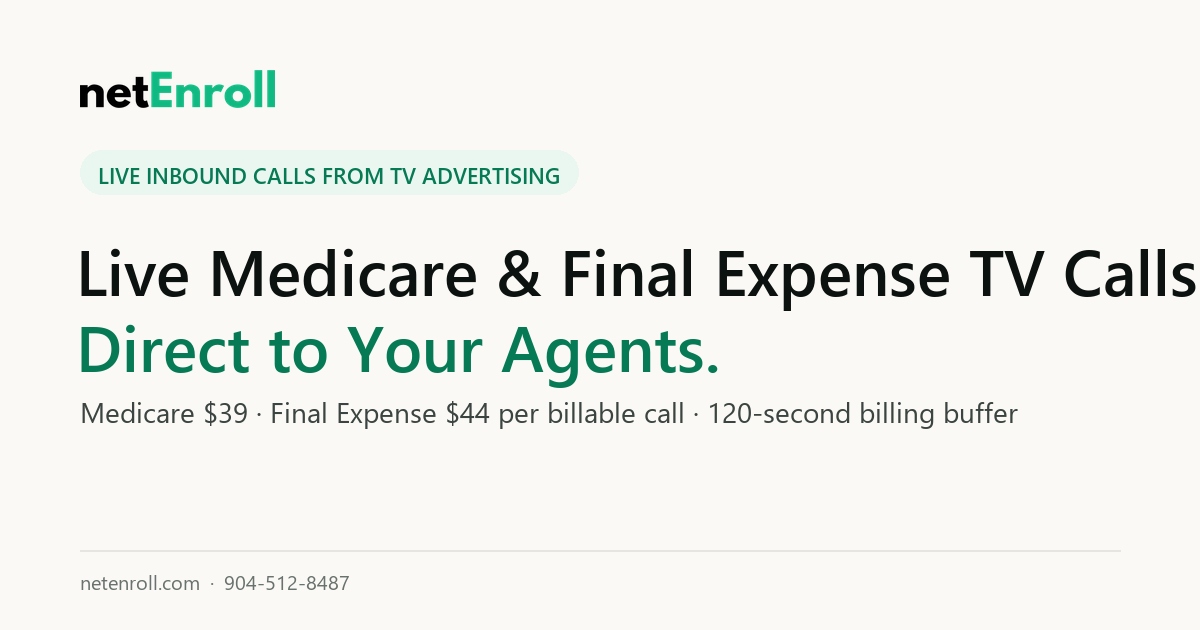
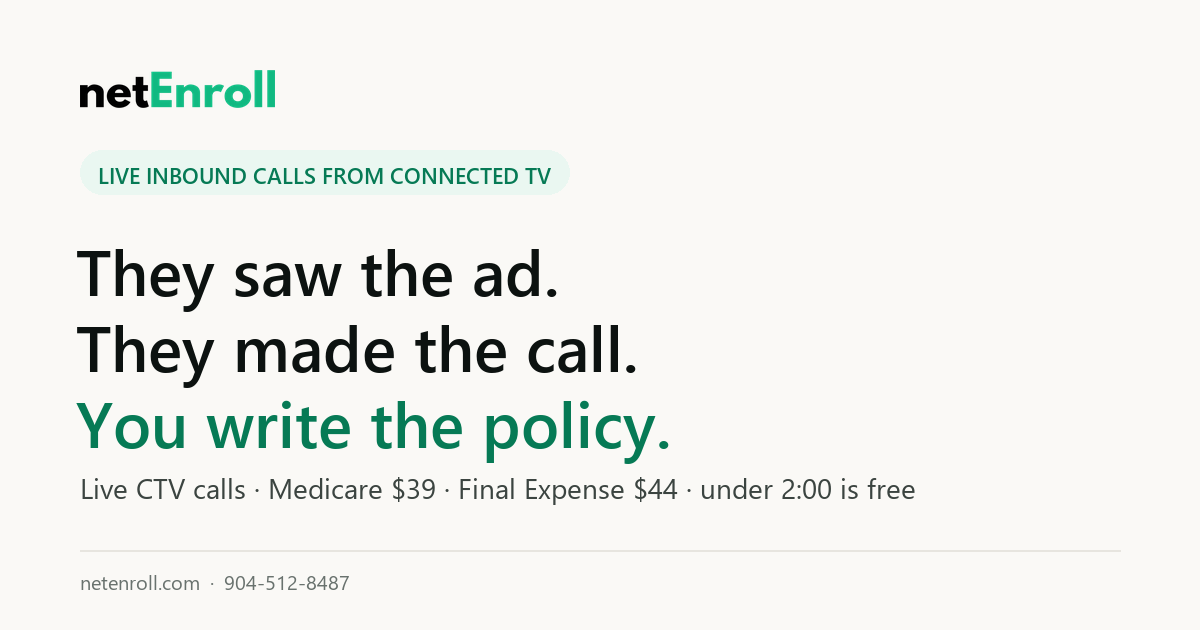
Homepage: finish the hero card, green live dot, new share image

diff --git a/home.css b/home.css
@@ -15,7 +15,7 @@
     --cream: #FFFFFF;
     --yellow: #10B981;
     --yellow-2: #2BD198;
-    --tally: #FF4D3D;
+    --tally: #10B981;
     --bg: #FFFFFF;
     --display: 'General Sans', 'Satoshi', -apple-system, BlinkMacSystemFont, 'Segoe UI', Helvetica, Arial, sans-serif;
     background: #fff;
@@ -33,7 +33,7 @@
 .p-home .btn-ghost:hover { --b: rgba(255, 255, 255, .06); border-color: var(--cream); box-shadow: none; }
 
 /* ---- Hero ---------------------------------------------------------------- */
-.hx { background: var(--pine); color: var(--cream); padding: clamp(44px, 6vw, 88px) 0 0; overflow: hidden; }
+.hx { background: var(--pine); color: var(--cream); padding: clamp(44px, 6vw, 88px) 0 clamp(40px, 5vw, 72px); overflow: hidden; }
 .hx-grid { display: grid; grid-template-columns: 1.08fr .92fr; gap: clamp(32px, 5vw, 72px); align-items: center; }
 .hx h1 {
     color: #fff; font-size: clamp(40px, 5.6vw, 84px); line-height: .98; letter-spacing: -.04em;
@@ -67,11 +67,12 @@
 .tv-num { margin-top: 10px; display: inline-flex; align-self: flex-start; padding: 8px 14px; border-radius: 10px; background: var(--yellow); color: #0C1210; font: 600 clamp(17px, 1.9vw, 21px)/1 var(--display); letter-spacing: .02em; }
 .wire { width: 2px; height: 34px; background: repeating-linear-gradient(to bottom, var(--yellow) 0 6px, transparent 6px 12px); }
 .ring {
-    width: 100%; max-width: 440px; border-radius: 22px 22px 0 0; background: #fff; color: #0C1210;
+    width: 100%; max-width: 440px; border-radius: 22px; background: #fff; color: #0C1210;
     padding: 22px 24px 26px; box-shadow: 0 -10px 60px -20px rgba(0, 0, 0, .55);
 }
 .ring-top { display: flex; align-items: center; justify-content: space-between; gap: 12px; }
 .ring-who { display: flex; align-items: center; gap: 12px; font-weight: 700; font-size: 16px; }
+.ring-who span { text-wrap: balance; }
 .ring-who svg { width: 40px; height: 40px; padding: 10px; border-radius: 50%; background: #10B981; color: #fff; flex: none; }
 .ring-who small { display: block; font-weight: 500; font-size: 13.5px; color: #69726E; margin-top: 2px; }
 .ring-time { font: 600 34px/1 var(--display); letter-spacing: -.03em; font-variant-numeric: tabular-nums; }

diff --git a/tools/make-assets.py b/tools/make-assets.py
@@ -114,9 +114,9 @@ def og_tv(title, price, sub, pill, out):
     im.save(out, optimize=True)
 
 
-og_tv(["Live Medicare & Final Expense TV Calls.", "Direct to Your Agents."], None,
-      "Medicare $39 · Final Expense $44 per billable call · 120-second billing buffer",
-      "LIVE INBOUND CALLS FROM TV ADVERTISING", ROOT / "og-home.png")
+og_tv(["They saw the ad.", "They made the call.", "You write the policy."], None,
+      "Live CTV calls · Medicare $39 · Final Expense $44 · under 2:00 is free",
+      "LIVE INBOUND CALLS FROM CONNECTED TV", ROOT / "og-home.png")
 og_tv(["Medicare TV Inbound Calls"], "$39 per billable call",
       "Live Medicare inquiries from TV advertising · 120-second billing buffer",
       "MEDICARE", ROOT / "og-medicare-tv.png")
